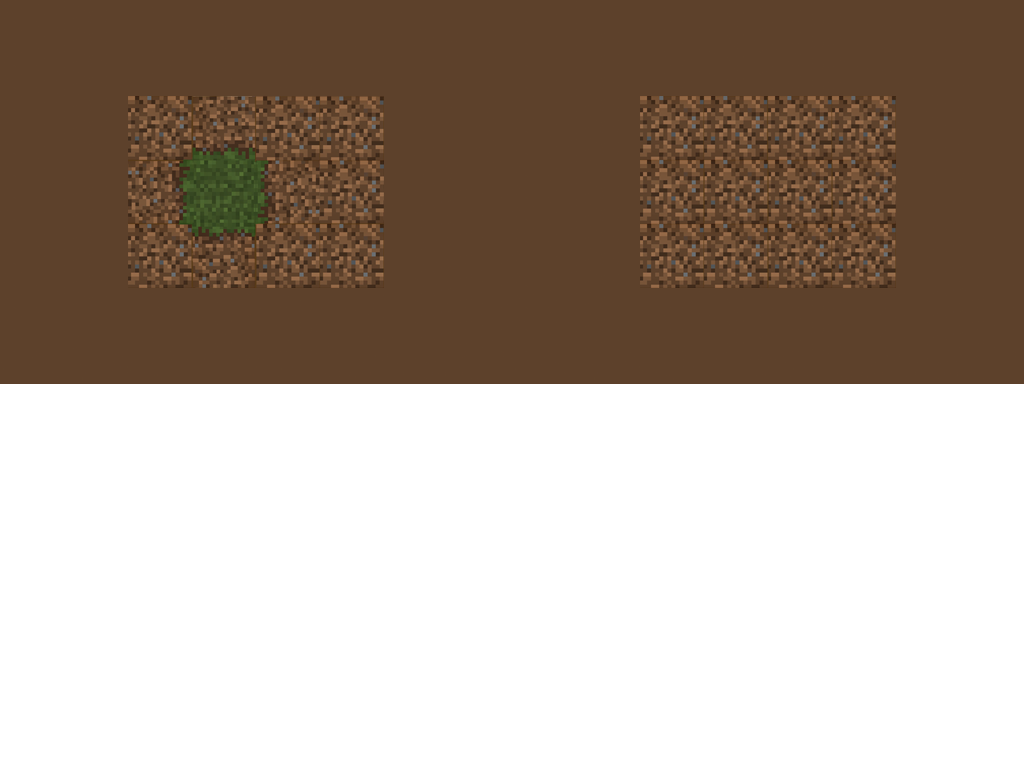
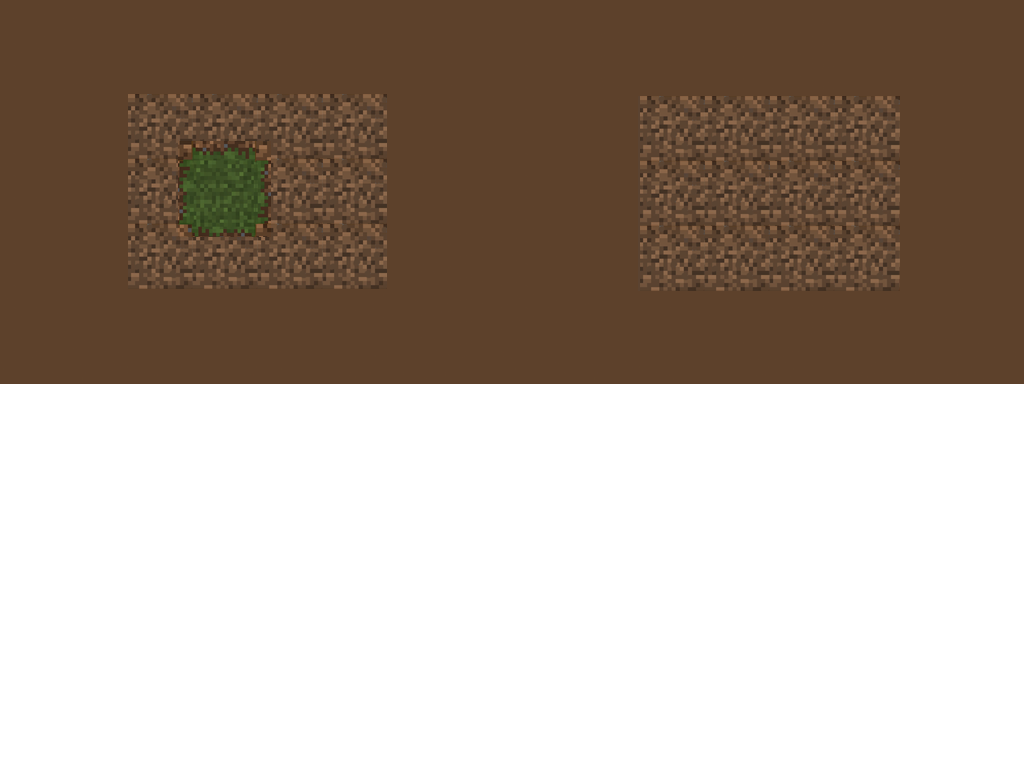
dev

Changed region(s): [[0.625, 0.125, 0.875, 0.375], [0.125, 0.125, 0.375, 0.375]]

diff --git a/src/babylon/materials.ts b/src/babylon/materials.ts
@@ -33,7 +33,7 @@ export const Materials = {
     },
 
     createTerrainMaterial1(scene: Scene): PBRCustomMaterial {
-        const material = this.getPBRCustomMaterial(scene, "terrain_mats1", this.BASE_PATH, 'terrain_materials1.png', 1 / 4, 1 / 4, false)
+        const material = this.getPBRCustomMaterial(scene, "terrain_mats1", this.BASE_PATH, 'terrain_materials2.png', 1 / 8, 1 / 8, false)
         return material
     },
 
@@ -49,6 +49,7 @@ export const Materials = {
 
     createBlockMatAlpha1(scene: Scene): PBRCustomMaterial {
         const material = this.getPBRCustomMaterial(scene, "sym_block_mats_alpha1", this.BASE_PATH, 'block_materials_alpha1.png', 1 / 8, 1 / 8, true)
+        material.alpha = 0.5
         return material
     },
 
@@ -71,8 +72,8 @@ export const Materials = {
         return this.getPBRCustomMaterialFrom(scene, name, basePath, texturePath, uScale, vScale, hasAlpha, {
             metallic: 0.0,
             roughness: 1.0,
-            directIntensity: 1.0,
-            environmentIntensity: 0.75,
+            directIntensity: 0.75,
+            environmentIntensity: 1,
             }
         )
     },
@@ -121,7 +122,7 @@ export const Materials = {
         mat.directIntensity = 1
         mat.environmentIntensity = 0.5
         mat.usePhysicalLightFalloff = false
-        mat.alpha = 0.25
+        mat.alpha = 1
 
         mat.freeze()
         return mat
@@ -152,8 +153,8 @@ export const MaterialEnum1 = {
 }
 
 export const TerrainEnum1 = {
-    TERRAIN_DIRT: new MaterialEnum(1, new Vector2(2.5, 2.5)),
-    TERRAIN_GRASS: new MaterialEnum(2, new Vector2(0.5, 2.5)),
+    TERRAIN_DIRT: new MaterialEnum(1, new Vector2(2.5, 6.5)),
+    TERRAIN_GRASS: new MaterialEnum(2, new Vector2(4.5, 6.5)),
 
     getTerrainByIndex(index: number): Vector2 {
         return Object.values(TerrainEnum1).find(item => item.index === index)?.uv;
@@ -162,7 +163,7 @@ export const TerrainEnum1 = {
 
 export const PlaneEnum1 = {
     PLANE_DIRT: new MaterialEnum(1, new Vector2(2.5, 6.5)),
-    PLANE_GRASS: new MaterialEnum(2, new Vector2(0.5, 6.5)),
+    PLANE_GRASS: new MaterialEnum(2, new Vector2(4.5, 6.5)),
 
     getPlaneByIndex(index: number): Vector2 {
         return Object.values(PlaneEnum1).find(item => item.index === index)?.uv;

diff --git a/src/babylon/scene/renderer.ts b/src/babylon/scene/renderer.ts
@@ -24,6 +24,7 @@ import { MonsterLoader } from '@/babylon/monsters/monsterLoader'
 import { Connector } from '@/network/connector'
 import { MobEquipManager } from '@/babylon/item/mobEquipManager'
 import { WorldDataManager } from '@/data/worldDataManager'
+import { WeatherManager } from '@/babylon/world/weather/weatherManager'
 
 /**
  * Main Renderer
@@ -65,7 +66,8 @@ export const Renderer = {
         this.animationSpeedRatio = this.animationFrameTime / 25
         this.sunLight = new DirectionalLight("sunLight", new Vector3(-0.75, -0.75, 0.3), this.scene)
         this.sunLight.position = new Vector3(25, 25, 25);
-        this.sunLight.intensity = 1.6
+        this.sunLight.intensity = 1
+        this.sunLight.diffuse = new Color3(1, 0.91, 0.74)
 
         if (Settings.shadows) {
             this.shadow = new ShadowGenerator(4096, this.sunLight, false)
@@ -95,6 +97,7 @@ export const Renderer = {
         Controller.initializeController(this.scene)
         Materials.initialize(this.scene)
         WorldRenderer.initialize(this.scene)
+        WeatherManager.initialize(this.scene)
 
         // Create the camera
         let cameraPosition = new Vector3(-12, 12, -12)
@@ -180,8 +183,9 @@ export const Renderer = {
             MobEquipManager.onFrame()
         }
 
-        if (this.frame % 150 === 0) {
+        if (this.frame % 60 === 0) {
             MiniMap.updateMiniMap()
+            WeatherManager.update()
         }
 
         const pos = Data.myChar.getPositionRounded()
@@ -245,9 +249,9 @@ export const Renderer = {
         this.scene.autoClearDepthAndStencil = false
 
         this.scene.fogMode = Scene.FOGMODE_LINEAR
-        this.scene.fogStart = 55
-        this.scene.fogEnd = 75
-        this.scene.fogColor = new Color3(0, 0, 0)
+        this.scene.fogStart = 30
+        this.scene.fogEnd = 50
+        this.scene.fogColor = new Color3(0.2, 0.22, 0.24)
 
         this.setCullingFrequency(this.scene, 50)
 
@@ -255,7 +259,7 @@ export const Renderer = {
             "environment_specular.env",
             this.scene
         );
-        this.scene.environmentIntensity = 0.5
+        this.scene.environmentIntensity = 0.3
     },
 
     actualizeDebug() {

diff --git a/src/babylon/world/weather/weatherManager.ts b/src/babylon/world/weather/weatherManager.ts
@@ -1,0 +1,89 @@
+import {
+    Color4,
+    GPUParticleSystem,
+    MeshBuilder,
+    ParticleSystem,
+    Scene,
+    Texture,
+    Vector3,
+} from '@babylonjs/core'
+import { Renderer } from '@/babylon/scene/renderer'
+export const WeatherManager = {
+    actualWeather: null as WeatherEffect | null,
+
+    initialize () {
+
+    },
+
+    update() {
+        /**
+        if (!this.actualWeather) {
+            this.actualWeather = new SnowEffect(Renderer.scene)
+            this.actualWeather.start()
+        }
+
+        this.actualWeather?.update()*/
+    },
+}
+
+interface WeatherEffect {
+    start() : void
+    stop() : void
+    update() : void
+}
+
+class SnowEffect implements WeatherEffect {
+
+    constructor(scene: Scene) {
+        console.log("Initializing snow effect")
+        const snow = new GPUParticleSystem("snow", {
+            capacity: 25000
+        }, scene);
+
+        snow.particleTexture = new Texture("images/gfx/flare.png", scene);
+        snow.minEmitBox = new Vector3(-20, 5, -20);
+        snow.maxEmitBox = new Vector3(20, 7, 20);
+
+        const snowEmitter = MeshBuilder.CreateBox(
+            "snowEmitter",
+            { size: 0.1 },
+            scene
+        );
+        snowEmitter.isVisible = false;
+        snow.emitter = snowEmitter;
+
+        snow.minSize = 0.03;
+        snow.maxSize = 0.1;
+
+        snow.addColorGradient(0, new Color4(1, 1, 1, 0.3))
+        snow.addColorGradient(1, new Color4(1, 1, 1, 0))
+        snow.blendMode = ParticleSystem.BLENDMODE_ADD;
+
+        snow.minLifeTime = 2
+        snow.maxLifeTime = 2
+
+        // speed
+        snow.minEmitPower = 0.8;
+        snow.maxEmitPower = 1.2;
+
+        snow.gravity = new Vector3(0, -0.6, 0);
+
+        const wind = new Vector3(0.6, 0, -1.5);
+        snow.direction1.set(wind.x - 0.4, -1, wind.z - 0.4)
+        snow.direction2.set(wind.x + 0.4, -1, wind.z + 0.4
+        );
+
+        snow.emitRate = 1000;
+        snow.start();
+    }
+
+    start(): void {
+
+    }
+    stop(): void {
+
+    }
+    update(): void {
+
+    }
+}

diff --git a/src/babylon/world/treeManager.ts b/src/babylon/world/treeManager.ts
@@ -24,7 +24,7 @@ export const TreeManager = {
     consumeTrees(data: [ { x: number, z: number, size: number } ]) {
         data.forEach(tree => {
             const y = WorldDataManager.getBlockMap()[tree.x][tree.z].height + 0.5
-            this.allTrees.push(new Tree1(new Vector3(tree.x, y, tree.z), Math.floor(Math.random() * 4) * Math.PI / 2, tree.size, MaterialEnum1.getMaterialByIndex(1 + Math.floor(Math.random() * 2))))
+            this.allTrees.push(new Tree1(new Vector3(tree.x, y, tree.z), Math.floor(Math.random() * 4) * Math.PI / 2, tree.size * 1.5, MaterialEnum1.getMaterialByIndex(1 + Math.floor(Math.random() * 2))))
         })
 
     },
@@ -75,7 +75,7 @@ export const TreeManager = {
     getPointInTree(x: number, z: number, size: number): { x: number, z: number } | null {
         for (const element of this.allTrees) {
             const tree = element
-            const combinedSize = (tree.scale + size) / 2
+            const combinedSize = ((tree.scale * 0.75) + size) / 2
             if (Math.abs(tree.position.x - x) < combinedSize && Math.abs(tree.position.z - z) < combinedSize) {
                 return { x: tree.position.x, z: tree.position.z }
             }

diff --git a/src/babylon/world/terrainManager.ts b/src/babylon/world/terrainManager.ts
@@ -63,7 +63,7 @@ export const TerrainManager = {
 
                 if (block.type > 0) {
                     if (planeBlockMap[x][z]) {
-                        const matrix = Matrix.Translation( x - myPos.x, block.totalHeight, z - myPos.z);
+                        const matrix = Matrix.Translation( x - myPos.x, block.height + heightOffset, z - myPos.z);
                         planeMatrices.push(matrix)
                         planeUvData.push(PlaneEnum1.getPlaneByIndex(planeBlockMap[x][z].type))
                     } else {

diff --git a/src/network/responseProcessor.ts b/src/network/responseProcessor.ts
@@ -11,7 +11,7 @@ export const ResponseProcessor = {
     async processResponse(response) {
         for (const element of response) {
             const msg = element
-            console.log(msg.t)
+            //console.log(msg.t)
             switch (msg.t) {
                 case 2: await this.loginResponse(msg.d); break
                 case 3: this.addMonster(msg.d); break

diff --git a/src/utils/minimap.ts b/src/utils/minimap.ts
@@ -36,7 +36,7 @@ export const MiniMap = {
         const dirtColor = "#8B4513"
         const waterColor = "#2222BB"
 
-        console.log("Add chunk to minimap...")
+        //console.log("Add chunk to minimap...")
 
         // Draw the entire map once on the off-screen canvas
         for (let x = 0; x < WorldDataManager.MAP_CHUNK_SIZE; x++) {

diff --git a/src/App.vue b/src/App.vue
@@ -79,7 +79,7 @@ export default {
     position: absolute;
     top: 0px;
     right: 0px;
-    background-color: green;
+    background-color: black;
     opacity: 0.65;
     border-left: 2px ridge rosybrown;
     border-bottom: 2px ridge rosybrown;
